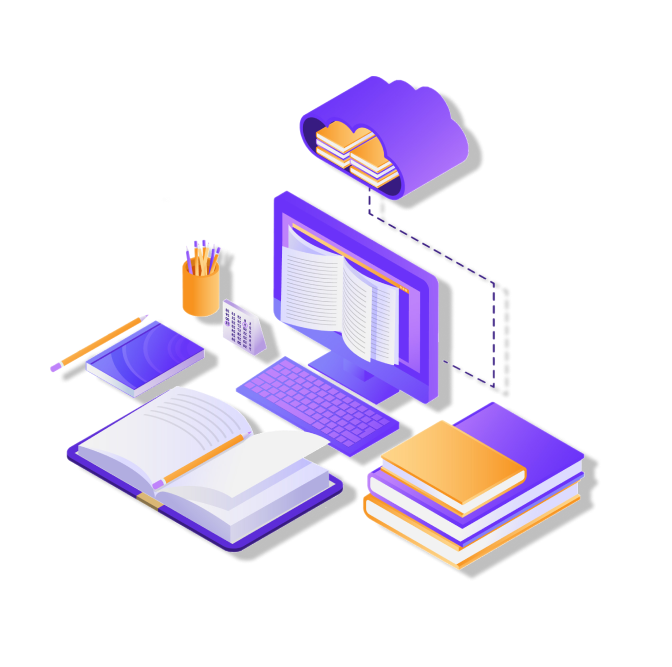
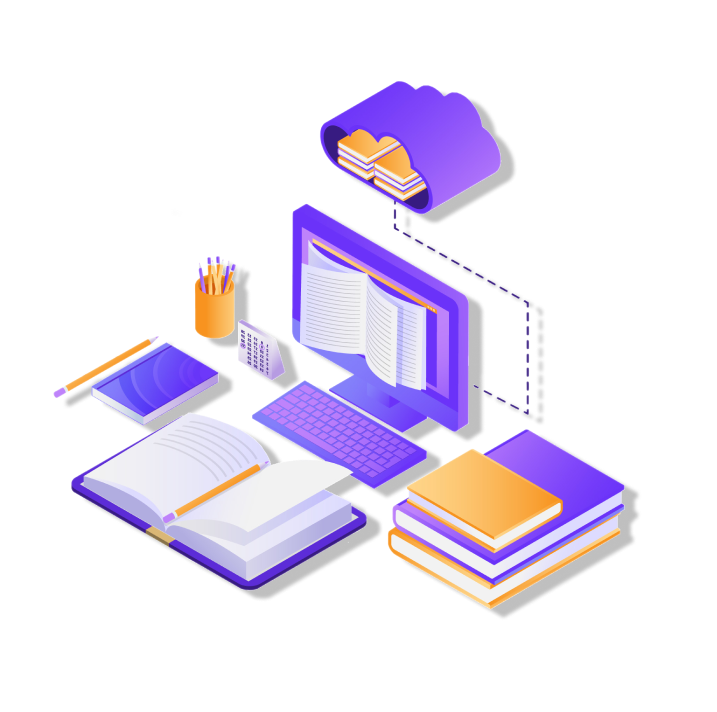
1

diff --git a/frontend/src/app/components/landing-page/landing-page.component.scss b/frontend/src/app/components/landing-page/landing-page.component.scss
@@ -1,0 +1,249 @@
+*{
+  margin: 0;
+  padding: 0;
+
+}
+
+body
+{
+
+  margin: 0;
+  padding: 0;
+
+}
+
+//!HERO
+#hero
+{
+// width: 100vw;
+font-size: 20px;
+
+}
+
+
+#logo
+{
+width: 180px;
+height: 69px;
+position: absolute;
+top: 10px;
+left: 100px;
+
+
+color: #2B2525;
+font-family: 'Outfit', sans-serif;
+font-size: 32px;
+font-style: normal;
+font-weight: 700;
+line-height: normal;
+
+}
+
+
+#logo2
+{
+color: purple;
+
+}
+
+#hero_section
+{
+width:450px ;
+height: 350px;
+margin-top: 100px;
+position: relative;
+top: 130px;
+left: 440px;
+
+
+}
+
+#hero_header
+{
+display: flex;
+width: 435px;
+height: 187px;
+flex-direction: column;
+justify-content: center;
+
+color: #000;
+font-family: 'Poppins',sans-serif;
+font-size: 48px;
+font-style: normal;
+font-weight: 700;
+line-height: 112%;
+
+}
+
+#hero_text
+{
+display: flex;
+width: 435px;
+flex-direction: column;
+justify-content: center;
+color: #000;
+font-family: 'Poppins', sans-serif;
+font-size: 16px;
+font-style: normal;
+font-weight: 400;
+line-height: normal;
+
+
+}
+
+#hero_btns
+{
+display: flex;
+gap: 5px;
+
+}
+
+#more_details
+{
+width: 255px;
+height: 45px;
+border-radius: 40px;
+background: #51218F;
+display: flex;
+justify-content: center;
+align-items: center;
+
+}
+
+#more_details span
+{
+  color: white;
+  font-family: 'Poppins', sans-serif;
+  font-weight: 600;
+  font-size: 18px;
+
+
+}
+
+#courses_btn
+{
+display: flex;
+width: 164px;
+height: 41px;
+flex-direction: column;
+justify-content: center;
+
+
+text-align: center;
+
+
+
+font-style: normal;
+font-weight: 600;
+line-height: normal;
+border: 3px solid #51218F;
+border-radius: 40px;
+}
+
+#courses_btn span
+{
+font-family: 'Poppins', sans-serif;
+font-weight: 600;
+font-size: 16px;
+color: #000;
+
+}
+
+#navigation
+{
+position: absolute;
+display: flex;
+top: 20px;
+right: 100px;
+z-index: 1;
+gap: 30px;
+
+
+}
+
+#login_btn
+{
+display: flex;
+align-items: center;
+justify-content: center;
+color: white;
+width: 100px;
+height: 30px;
+font-family: 'Poppins', sans-serif;
+font-weight: 400;
+font-size: 18px;
+
+
+}
+
+#register_btn
+{
+display: flex;
+align-items: center;
+justify-content: center;
+width: 180px;
+height: 30px;
+color: white;
+border: 3px solid white;
+border-radius: 40px;
+
+font-family: 'Poppins', sans-serif;
+font-weight: 400;
+font-size: 18px;
+
+
+}
+
+#wave-background
+{
+  position: absolute;
+  top: 0px;
+  right: 0px;
+  margin: 0;
+  padding: 0;
+
+}
+
+#hero-img
+{
+position: absolute;
+top: 140px;
+right: 225px;
+
+}
+
+
+//!MAIN
+main
+{
+
+  border: 1px solid orange;
+  width: 100vw;
+  height: 100vh;
+}
+
+
+
+#motivate-text
+{
+  position: absolute;
+  text-align: center;
+font-family: 'Poppins', sans-serif;
+font-weight: 700 ;
+font-size: 48px;
+top: 1180px;
+left: 35vw;
+z-index: 1;
+}
+
+
+#wavy-article-img
+{
+margin: 0;
+margin-top: 510px;
+padding: 0;
+width: 1880px;
+position: absolute;
+left: 0;
+width: 100%;
+}

diff --git a/frontend/src/app/components/landing-page/landing-page.component.html b/frontend/src/app/components/landing-page/landing-page.component.html
@@ -1,6 +1,57 @@
-<p>test landing page </p>
 
-<header></header>
-<nav></nav>
-<main></main>
-<footer></footer>
+<!DOCTYPE html>
+<html lang="en">
+<head>
+  <meta charset="UTF-8">
+  <meta name="viewport" content="width=device-width, initial-scale=1.0">
+  <link rel="preconnect" href="https://fonts.googleapis.com">
+  <link rel="preconnect" href="https://fonts.gstatic.com" crossorigin>
+  <link href="https://fonts.googleapis.com/css2?family=Outfit:wght@700&family=Poppins:wght@400;600;700&display=swap" rel="stylesheet">
+</head>
+<body>
+
+
+
+<main>
+
+
+  <div id="hero">
+
+
+    <header id="logo">NoteBuddy <br><span id="logo2">To</span>Study</header>
+    <div id="hero_section">
+
+      <header id="hero_header">Twoja droga do sukcesu zaczyna się tutaj!</header>
+      <p id="hero_text">Poznaj moc nauki w społeczności. Dziel się notatkami, znajdź partnerów do nauki i doskonal umiejętności za pomocą fiszek</p>
+
+      <div id="hero_btns">
+        <div id="more_details"><span>Dowiedz się więcej</span></div>
+        <div id="courses_btn"><span>dostępne kierunki</span></div>
+      </div>
+
+    </div>
+
+
+
+  <nav id="navigation">
+    <div id="login_btn"><span>Zaloguj się</span></div>
+    <div id="register_btn"><span>dołącz do nas</span></div>
+  </nav>
+
+  <div id="wave-background"><img src="../../../assets/Ellipse 9.png" alt=""></div>
+  <div id="hero-img"><img src="../../../assets/laptopwithnotestest2 1.png" alt=""></div>
+  </div>
+
+
+
+
+<span id="motivate-text">Rozwijaj swoją wiedze i<br> zwiększ możliwości </span>
+<div id="background-img"></div>
+<img src="../../../assets/Ellipse 39.png" alt="" id="wavy-article-img">
+
+</main>
+
+
+
+</body>
+</html>